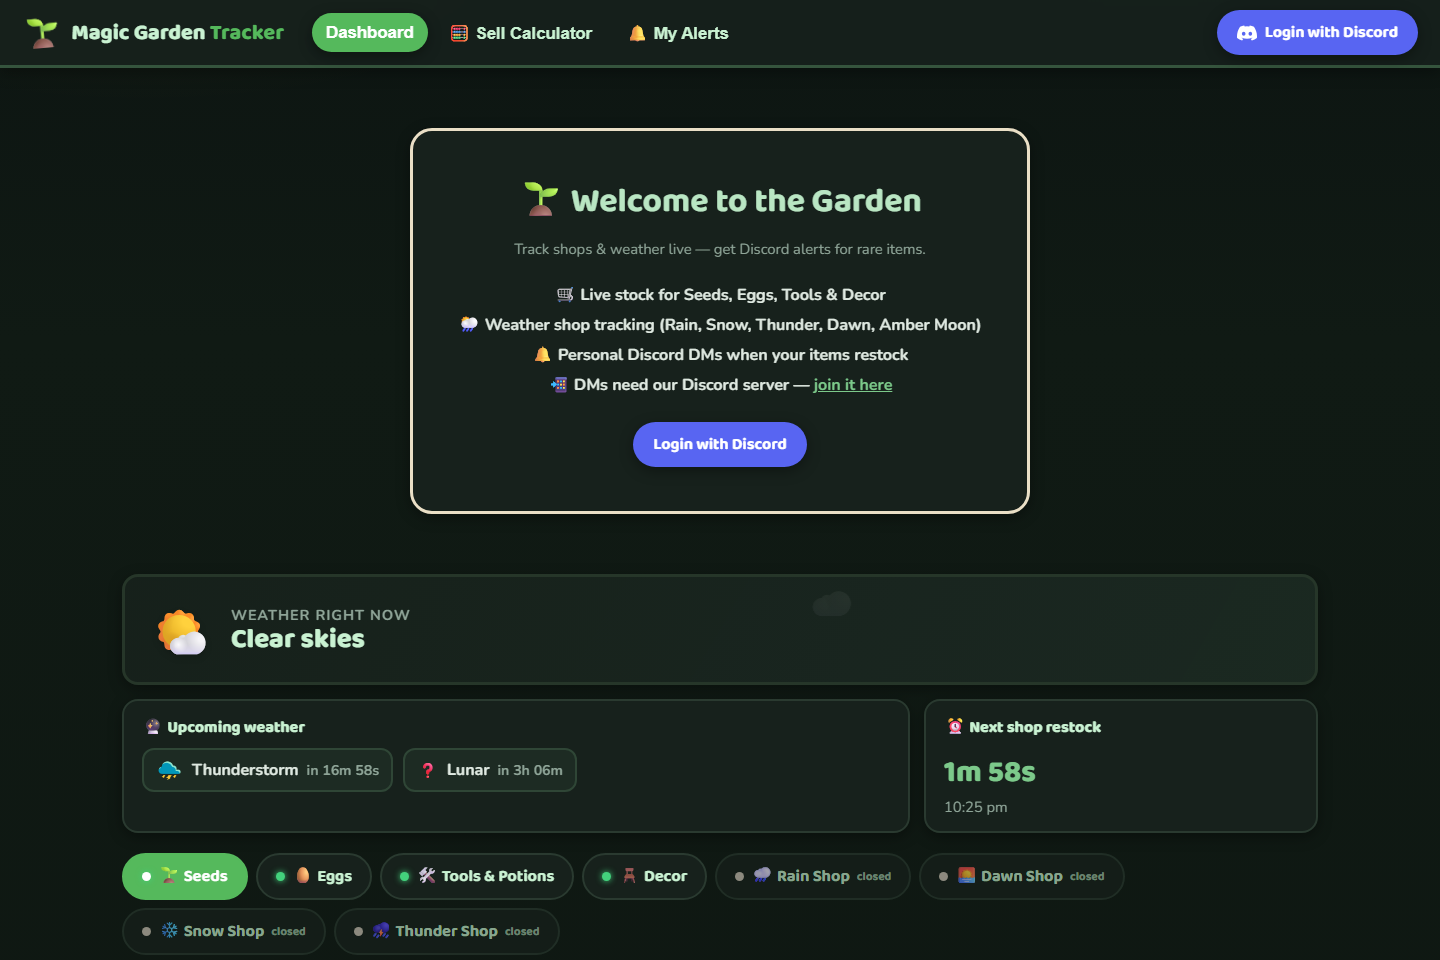
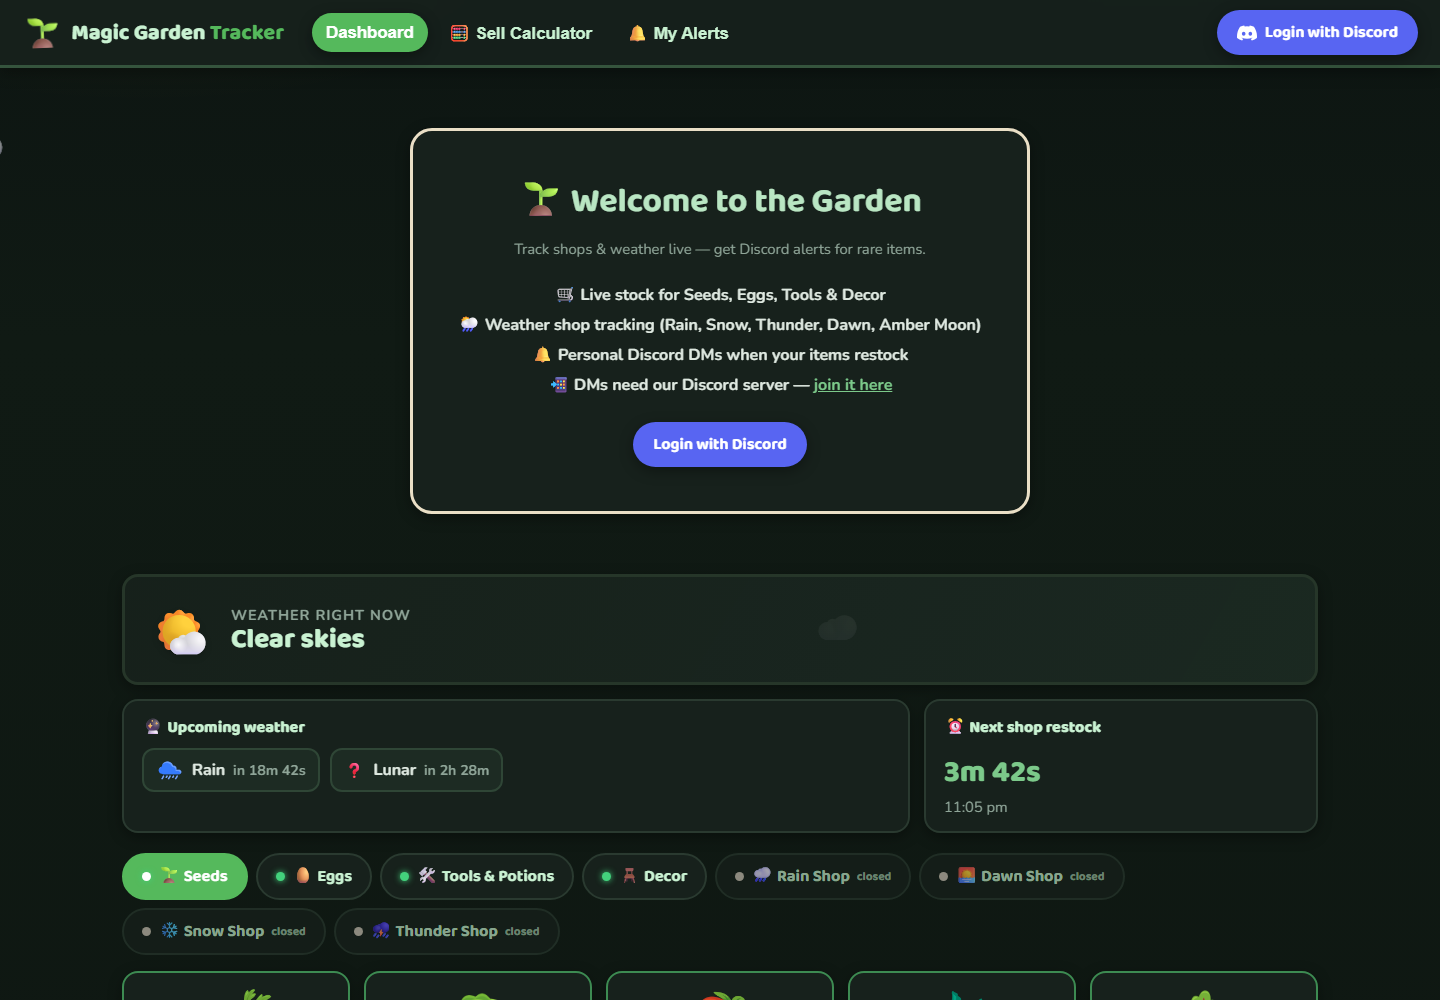
ui: green/red stock borders on item cards, open shops sorted before closed ones

diff --git a/public/app.js b/public/app.js
@@ -159,6 +159,17 @@
     });
     // weather shop closed while we were looking at it -> hop back to seeds
     if (!keys.includes(activeShop)) activeShop = "seed";
+    // open shops first, closed weather shops after
+    keys.sort((a, b) => {
+      const openA = DATA.shops[a].open ? 0 : 1;
+      const openB = DATA.shops[b].open ? 0 : 1;
+      if (openA !== openB) return openA - openB;
+      // keep the main shops in their familiar order before weather ones
+      const mainA = MAIN_SHOPS.includes(a) ? 0 : 1;
+      const mainB = MAIN_SHOPS.includes(b) ? 0 : 1;
+      if (mainA !== mainB) return mainA - mainB;
+      return keys.indexOf(a) - keys.indexOf(b);
+    });
     tabs.innerHTML = keys
       .map((k) => {
         const info = SHOP_LABELS[k] || { label: k, icon: "🏪" };
@@ -197,8 +208,10 @@
         shop.open && !MAIN_SHOPS.includes(activeShop)
           ? `<span class="badge weather-open">${wm.icon || ""} weather shop</span>`
           : "";
+      // green/red border tells you what's buyable at a glance
+      const stockCls = stocked ? "in-stock" : "out-of-stock";
       return `
-        <div class="item-card ${stocked ? "" : "out"}">
+        <div class="item-card ${stockCls} ${stocked ? "" : "out"}">
           ${ME ? `<button class="bell ${subbed ? "on" : ""}" data-item="${escapeHtml(cat.itemId)}" title="${subbed ? "Remove alert" : "Alert me when in stock"}">🔔</button>` : ""}
           ${imgTag(cat)}
           <div class="item-name">${escapeHtml(cat.name)}</div>

diff --git a/public/style.css b/public/style.css
@@ -235,6 +235,12 @@ body.dark .weather-banner.active {
   transition: transform 0.15s ease, box-shadow 0.2s ease, border-color 0.2s ease;
   animation: cardIn 0.35s ease both;
 }
+/* stock state is visible at a glance: green = buyable, red = wait for restock */
+.item-card.in-stock { border-color: #66bb6a; }
+.item-card.in-stock:hover { border-color: #43a047; }
+body.dark .item-card.in-stock { border-color: #3d8b52; }
+.item-card.out-of-stock { border-color: #ef9a9a; }
+body.dark .item-card.out-of-stock { border-color: #8a4a4a; }
 .item-card:hover {
   transform: translateY(-4px) scale(1.015);
   box-shadow: var(--shadow-lg);
